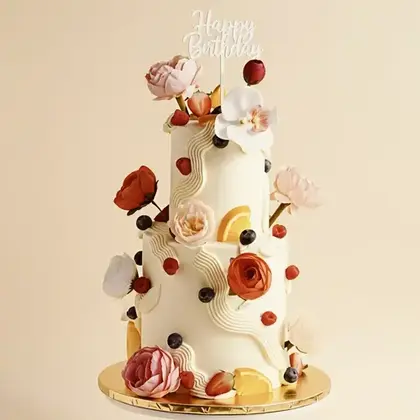
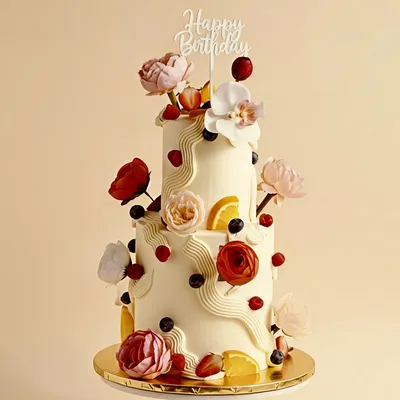
image change and website BreadcrumbList updated

diff --git a/src/app/mo-made.component.ts b/src/app/mo-made.component.ts
@@ -129,7 +129,11 @@ export class MoMadeComponent implements OnInit {
   // Handle all hash-based URLs: #category/*, #product/*, #boutique, #story, #concierge
   private handleHashUrl() {
     const hash = window.location.hash;
-    if (!hash) return;
+
+    if (!hash) {
+      this.updateHashMetaTags('');
+      return;
+    }
 
     // Handle #category/<id> — open category view
     const categoryMatch = hash.match(/#category\/([a-zA-Z0-9_-]+)/);
@@ -140,6 +144,7 @@ export class MoMadeComponent implements OnInit {
         this.selectedCategoryId.set(categoryId);
         this.currentView.set('category');
         window.scrollTo({ top: 0, behavior: 'smooth' });
+        this.updateHashMetaTags(hash);
       }
       return;
     }
@@ -167,6 +172,7 @@ export class MoMadeComponent implements OnInit {
       if (this.currentView() !== 'landing') {
         this.currentView.set('landing');
       }
+      this.updateHashMetaTags(hash);
       setTimeout(() => {
         const el = document.getElementById(sectionMatch[1]);
         if (el) {
@@ -174,6 +180,63 @@ export class MoMadeComponent implements OnInit {
         }
       }, 100);
     }
+  }
+
+  // Update <title> and <meta name="description"> based on current hash
+  private updateHashMetaTags(hash: string) {
+    const routes: Record<string, { title: string; description: string }> = {
+      '#category/wedding': {
+        title: 'Wedding Cakes | Mo Made Patisserie',
+        description: 'Bespoke luxury wedding cakes handcrafted in Bangalore by Monisha Prakash.'
+      },
+      '#category/celebration': {
+        title: 'Celebration Cakes | Mo Made Patisserie',
+        description: 'Custom celebration cakes for birthdays, anniversaries, and every milestone.'
+      },
+      '#category/confectionery': {
+        title: 'Confectionery | Mo Made Patisserie',
+        description: 'Artisan chocolates, macarons, and gourmet confectionery treats.'
+      },
+      '#category/summer': {
+        title: 'Summer Special | Mo Made Patisserie',
+        description: 'Seasonal summer desserts and cakes by Mo Made Patisserie.'
+      },
+      '#category/winter': {
+        title: 'Winter Special | Mo Made Patisserie',
+        description: 'Seasonal winter desserts and festive cakes by Mo Made Patisserie.'
+      },
+      '#boutique': {
+        title: 'Boutique Collections | Mo Made Patisserie',
+        description: 'Explore our full collection of bespoke signature cakes and gourmet treats.'
+      },
+      '#story': {
+        title: 'Our Story | Mo Made Patisserie',
+        description: 'Meet Monisha Prakash — the artist behind Mo Made Patisserie.'
+      },
+      '#concierge': {
+        title: 'Design Your Dream Cake | Mo Made Patisserie',
+        description: 'Commission a custom bespoke cake — consult with us on WhatsApp.'
+      }
+    };
+
+    const defaultTitle = 'Mo Made Patisserie | Bespoke Wedding & Luxury Custom Cakes Bangalore';
+    const defaultDescription = 'Where Sugar Becomes Art. Bespoke signature cakes & gourmet treats handcrafted in Bangalore by Monisha Prakash.';
+
+    const route = routes[hash] ?? { title: defaultTitle, description: defaultDescription };
+    document.title = route.title;
+
+    // Update <meta name="description">
+    const descMeta = document.querySelector('meta[name="description"]');
+    if (descMeta) {
+      descMeta.setAttribute('content', route.description);
+    }
+
+    // Update OG/Twitter tags
+    this.setMetaContent('og-title', route.title);
+    this.setMetaContent('og-description', route.description);
+    this.setMetaContent('og-url', `${this.SITE_BASE_URL}/${hash}`);
+    this.setMetaContent('twitter-title', route.title);
+    this.setMetaContent('twitter-description', route.description);
   }
 
   // Mark app as ready - hides splash screen and triggers fade-in animation
@@ -662,7 +725,9 @@ export class MoMadeComponent implements OnInit {
     this.selectedCategoryId.set(categoryId);
     this.currentView.set('category');
     if (isPlatformBrowser(this.platformId)) {
-      window.history.pushState({ view: 'category', categoryId }, '', '#category/' + categoryId);
+      const hash = '#category/' + categoryId;
+      window.history.pushState({ view: 'category', categoryId }, '', hash);
+      this.updateHashMetaTags(hash);
       window.scrollTo({ top: 0, behavior: 'smooth' });
     }
   }
@@ -671,8 +736,9 @@ export class MoMadeComponent implements OnInit {
     this.currentView.set('landing');
     this.categoryTypeFilterSignal.set('wedding');
     if (isPlatformBrowser(this.platformId)) {
-      // Clear hash from URL
+      // Clear hash from URL and reset title/meta to home defaults
       window.history.replaceState({}, '', window.location.pathname);
+      this.updateHashMetaTags('');
       setTimeout(() => {
         window.scrollTo({ top: this.scrollPositionBeforeCategory, behavior: 'smooth' });
         // Restore carousel horizontal scroll position

diff --git a/src/index.html b/src/index.html
@@ -348,21 +348,58 @@
   }
   </script>
   
-  <!-- Breadcrumb Schema -->
+  <!-- Breadcrumb Schema — drives Google Sitelinks shown under the search result -->
   <script type="application/ld+json">
   {
     "@context": "https://schema.org",
     "@type": "BreadcrumbList",
     "itemListElement": [
-      {"@type": "ListItem", "position": 1, "name": "Home", "item": "https://momadepatisserie.com/"},
-      {"@type": "ListItem", "position": 2, "name": "The Boutique", "item": "https://momadepatisserie.com/#boutique"},
-      {"@type": "ListItem", "position": 3, "name": "Wedding Cakes", "item": "https://momadepatisserie.com/#wedding"},
-      {"@type": "ListItem", "position": 4, "name": "Our Story", "item": "https://momadepatisserie.com/#story"},
-      {"@type": "ListItem", "position": 5, "name": "Commission a Cake", "item": "https://momadepatisserie.com/#concierge"}
+      {"@type": "ListItem", "position": 1, "name": "Home",              "item": "https://momadepatisserie.com/"},
+      {"@type": "ListItem", "position": 2, "name": "The Boutique",      "item": "https://momadepatisserie.com/#boutique"},
+      {"@type": "ListItem", "position": 3, "name": "Wedding Cakes",     "item": "https://momadepatisserie.com/#category/wedding"},
+      {"@type": "ListItem", "position": 4, "name": "Celebration Cakes", "item": "https://momadepatisserie.com/#category/celebration"},
+      {"@type": "ListItem", "position": 5, "name": "Confectionery",     "item": "https://momadepatisserie.com/#category/confectionery"},
+      {"@type": "ListItem", "position": 6, "name": "Summer Special",    "item": "https://momadepatisserie.com/#category/summer"},
+      {"@type": "ListItem", "position": 7, "name": "Winter Special",    "item": "https://momadepatisserie.com/#category/winter"},
+      {"@type": "ListItem", "position": 8, "name": "Our Story",         "item": "https://momadepatisserie.com/#story"},
+      {"@type": "ListItem", "position": 9, "name": "Commission a Cake", "item": "https://momadepatisserie.com/#concierge"}
     ]
   }
   </script>
   
+  <!-- Bakery Schema — focused offering catalog linking to hash category URLs -->
+  <script type="application/ld+json">
+  {
+    "@context": "https://schema.org",
+    "@type": "Bakery",
+    "name": "Mo Made Patisserie",
+    "description": "Bespoke signature cakes and gourmet treats handcrafted in Bangalore by Monisha Prakash.",
+    "url": "https://momadepatisserie.com",
+    "image": "https://momadepatisserie.com/assets/images/IMG_5087.webp",
+    "address": {
+      "@type": "PostalAddress",
+      "addressLocality": "Bangalore",
+      "addressCountry": "IN"
+    },
+    "founder": {
+      "@type": "Person",
+      "name": "Monisha Prakash"
+    },
+    "servesCuisine": "Bakery, Confectionery",
+    "hasOfferCatalog": {
+      "@type": "OfferCatalog",
+      "name": "Custom Cakes & Confectionery",
+      "itemListElement": [
+        { "@type": "Offer", "itemOffered": { "@type": "Product", "name": "Wedding Cakes", "url": "https://momadepatisserie.com/#category/wedding" } },
+        { "@type": "Offer", "itemOffered": { "@type": "Product", "name": "Celebration Cakes", "url": "https://momadepatisserie.com/#category/celebration" } },
+        { "@type": "Offer", "itemOffered": { "@type": "Product", "name": "Confectionery", "url": "https://momadepatisserie.com/#category/confectionery" } },
+        { "@type": "Offer", "itemOffered": { "@type": "Product", "name": "Summer Special", "url": "https://momadepatisserie.com/#category/summer" } },
+        { "@type": "Offer", "itemOffered": { "@type": "Product", "name": "Winter Special", "url": "https://momadepatisserie.com/#category/winter" } }
+      ]
+    }
+  }
+  </script>
+
   <!-- FAQPage Schema for Google Rich Snippets -->
   <script type="application/ld+json">
   {
@@ -567,7 +604,11 @@
       <p>Commission your edible masterpiece — custom designed wedding cakes, celebration cakes, macarons, cakesicles, cookies, brownies, cupcakes &amp; dessert tables.</p>
       <nav aria-label="Primary">
         <a href="#boutique">Collections</a>
-        <a href="#wedding">Wedding Cakes</a>
+        <a href="#category/wedding">Wedding Cakes</a>
+        <a href="#category/celebration">Celebration Cakes</a>
+        <a href="#category/confectionery">Confectionery</a>
+        <a href="#category/summer">Summer Special</a>
+        <a href="#category/winter">Winter Special</a>
         <a href="#story">Our Story</a>
         <a href="#concierge">Commission a Cake</a>
       </nav>
